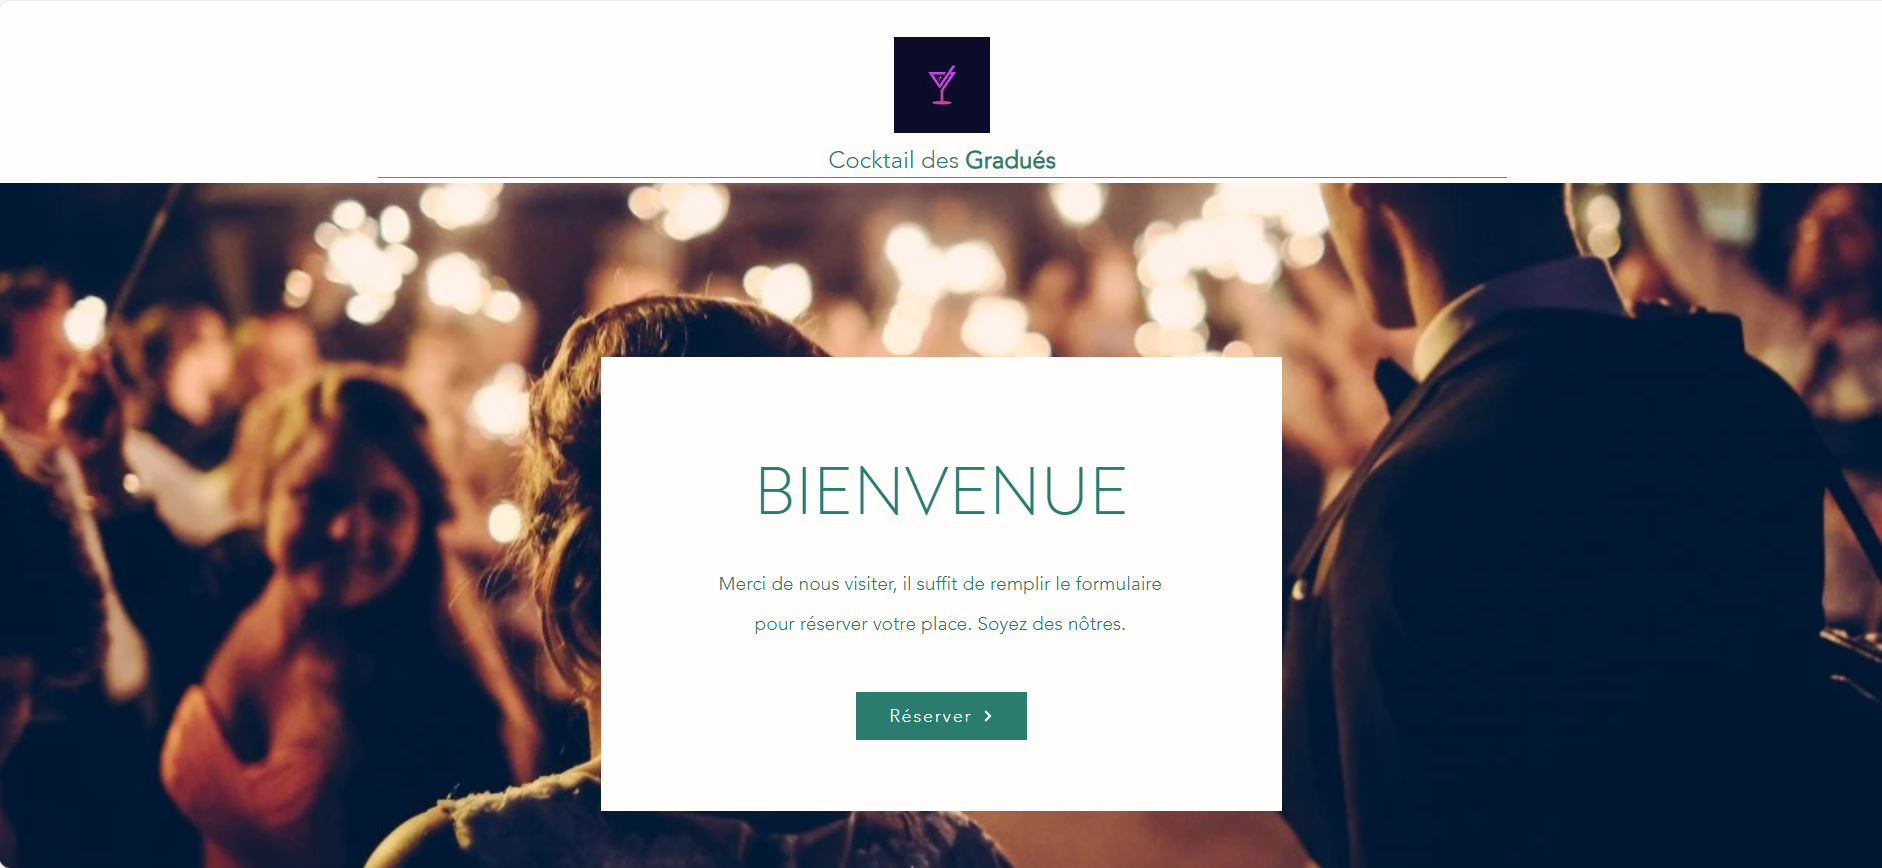
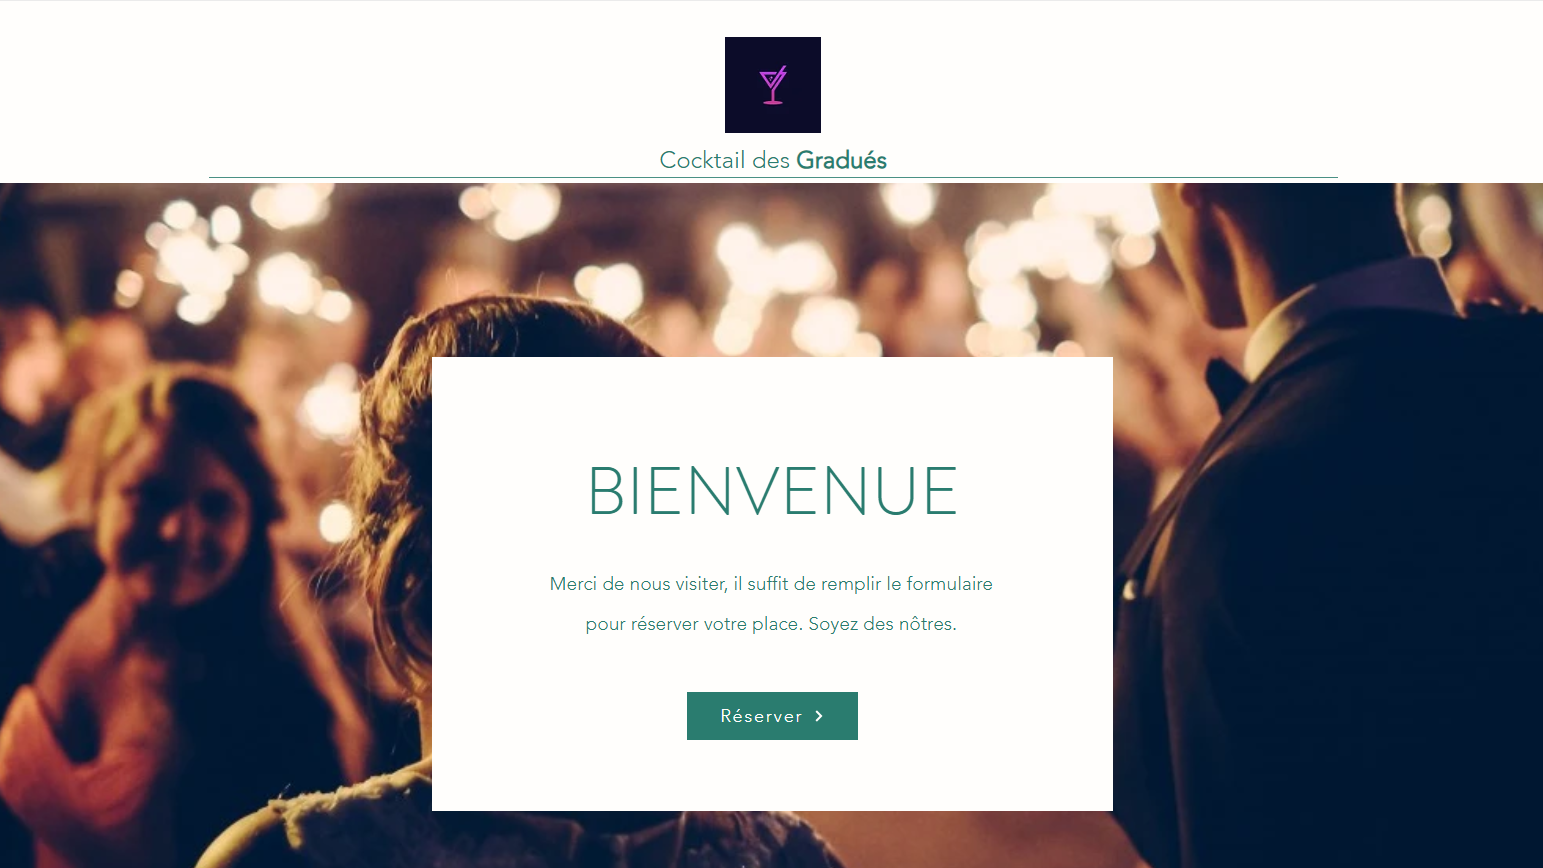
cocktails-des-gradues

diff --git a/portfolio.html b/portfolio.html
@@ -307,6 +307,18 @@
 		</div>
 
 		<div class="portfolio-item">
+			<img src="images/projets2/cocktailsdesgradues.png">
+			<div class="project-desc">
+				<h3>Site Web</h3>
+				<p>Plateforme de réservation événementielle</p>
+				<h5 style="margin-top: 5px; color: gray;">Technologie(s) : Wix</h5>
+			</div>
+			<div class="overlay">
+				<a href="images/projets2/cocktailsdesgradues.png"></a>
+			</div>
+		</div>
+<!-- 
+		<div class="portfolio-item">
 			<img src="images/projets2/gestionpatient.png">
 			<div class="project-desc">
 				<h3>Application Web</h3>
@@ -317,7 +329,7 @@
 			<div class="overlay">
 				<a href="images/projets2/gestionpatient.png"></a>
 			</div>
-		</div>
+		</div> -->
 
 		<div class="portfolio-item">
 			<img src="images/projets2/dictionnaire.png">
